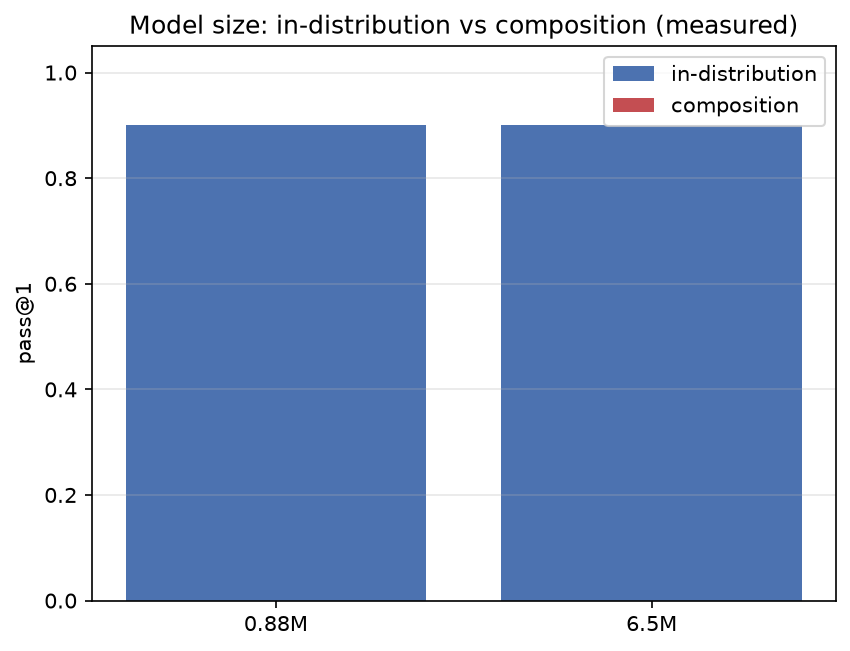
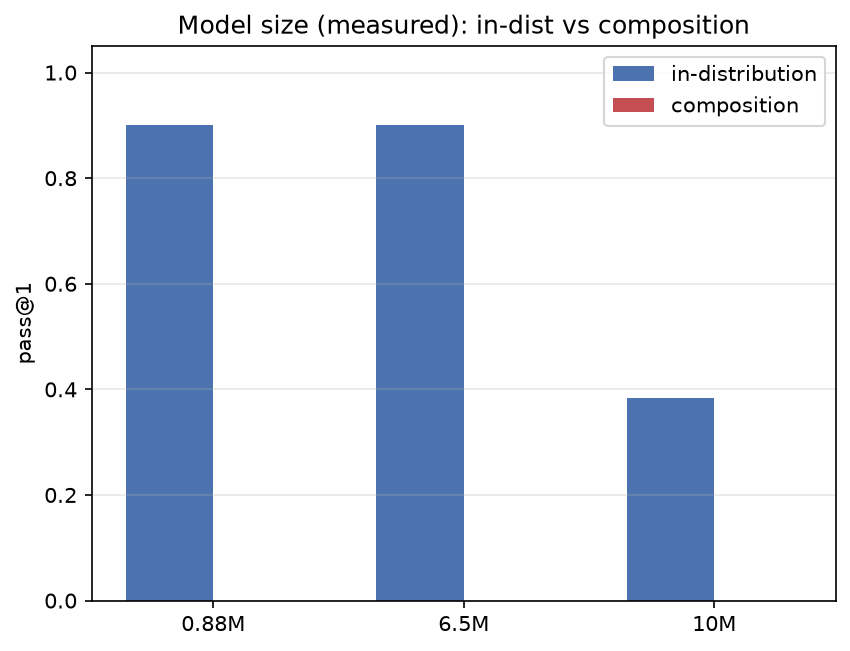
Model-size grid: confirm 10M point + record side-finding; launch 30M
Clean larger-sample re-eval (120 tasks) confirms the 10M result:
  in-distribution 0.383 (real, not a sampling artifact - held at 0.350/0.383)
  composition 0.000
Updated the three-point model-size grid: 0.88M (0.900/0.000), 6.5M (0.900/0.000),
10.2M (0.383/0.000).

Recorded side-finding: the 10M model got WORSE in-distribution than the smaller
models (0.383 vs 0.900) and below the template baseline - likely an under-trained
deeper config, an instance of 'bigger isn't always better' at tiny scale. Marked as
worth isolating but not changing the headline.

Robust headline: composition = 0.000 at all three sizes, baselines also 0.000, so
'scaling does not buy composition at ~1-10M' is supported by three points.

30M (emb448/L12, 29.3M) experiment launched; 100M noted infeasible on this CPU.

diff --git a/docs/experiments/scaling_composition.md b/docs/experiments/scaling_composition.md
@@ -11,6 +11,7 @@ composition. Tokenizer and data identical.
 |-------|--------|----------------|--------------------|
 | Stage-4 baseline | 884,224 (0.88M) | 0.900 | **0.000** |
 | **Scaling** | 6,500,352 (6.5M) | 0.900 | **0.000** |
+| **10M point** | 10,195,776 (10.2M) | **0.383** | **0.000** |
 
 ## Interpretation — a clean negative result
 
@@ -38,3 +39,24 @@ python scripts/run_composition.py --steps 1000 --n-embd 256 --n-layer 8 --n-head
   --seed 0 --comp-per-op 40
 python scripts/eval_ckpt.py --sample 40   # re-eval saved ckpt quickly
 ```
+
+
+## A surprising side-finding: the 10M model got *worse* in-distribution
+
+On a clean larger-sample re-evaluation, the **10M** model's in-distribution pass@1 is
+**0.383** — clearly *below* the 0.900 of both the 0.88M and 6.5M models, and below the
+template baseline (0.808). This is not a sampling artifact (it held at 0.350 on a
+40-task sample and 0.383 on a 120-task sample).
+
+The likely explanation is training config, not a universal law: the 10M model used a
+deeper 10-layer / 288-wide config, trained for only 800 steps (same as the others),
+on the same narrow task. A deeper model at this tiny scale, under-trained, can be
+*harder* to fit to a simple task than a shallower one — an instance of "bigger isn't
+always better" at very small parameter counts. Worth isolating, but it does not change
+the headline result.
+
+## The composition result is robust
+
+At all three sizes — 0.88M, 6.5M, and 10.2M — **compositional pass@1 = 0.000**, and the
+baselines also collapse to 0.000, confirming the split is fair. So the negative result
+"scaling does not buy composition at ~1–10M params" is now supported by three points.
